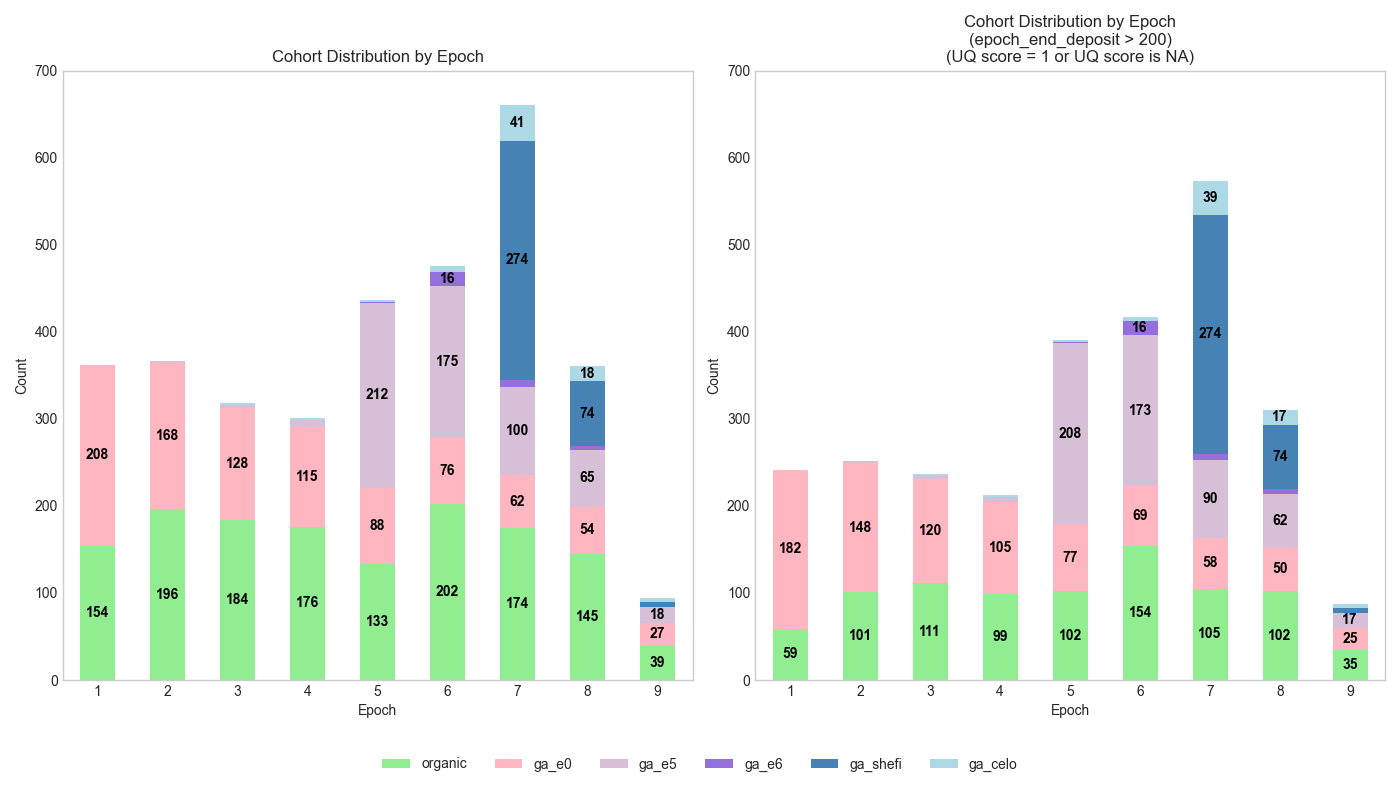
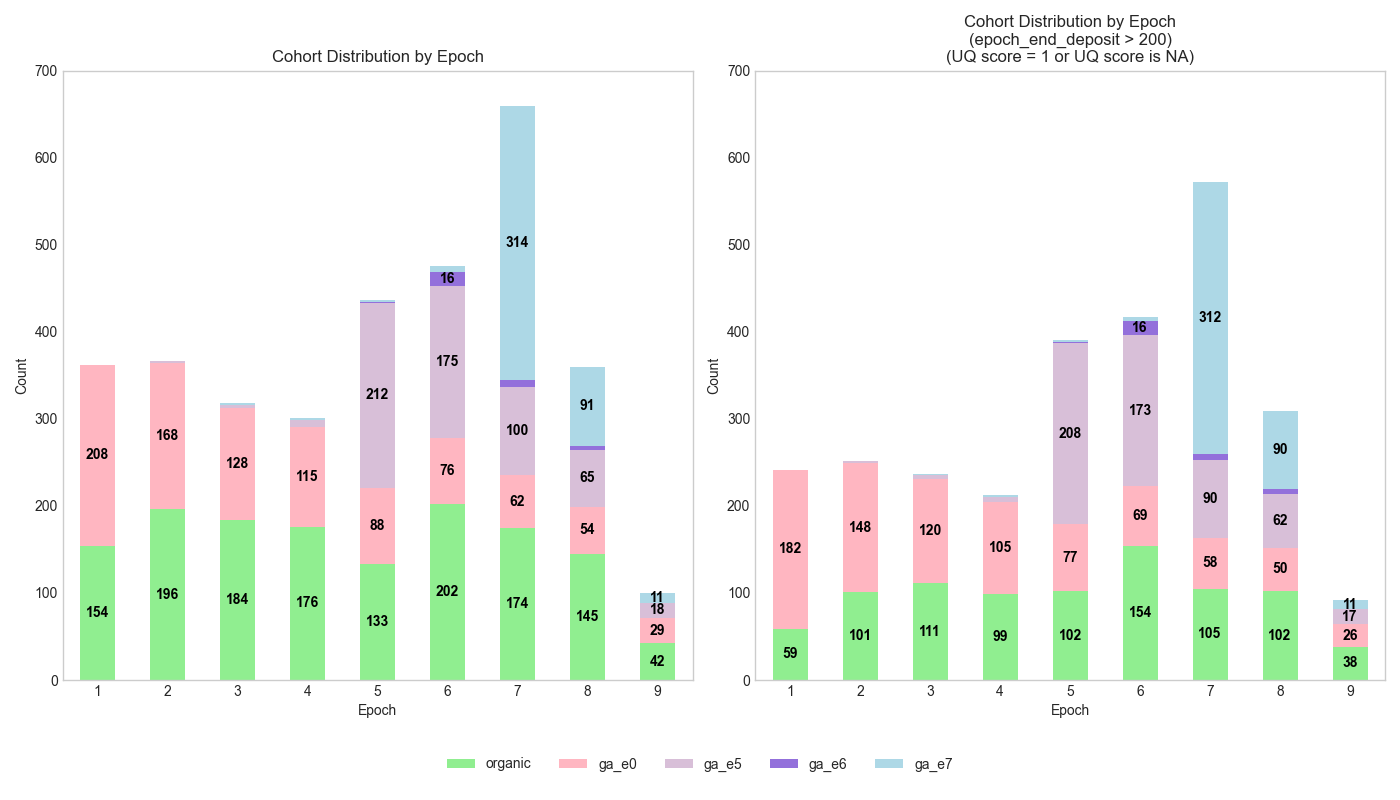
update

diff --git a/_includes/e9/table_amounts.html b/_includes/e9/table_amounts.html
@@ -86,10 +86,10 @@
     <tr>
       <td style="width: 1%; text-align: center; padding: 8px; word-wrap: break-word; white-space: normal;">9</td>
       <td style="width: 1%; text-align: center; padding: 8px; word-wrap: break-word; white-space: normal;">173.609</td>
-      <td style="width: 1%; text-align: center; padding: 8px; word-wrap: break-word; white-space: normal;">114.315</td>
-      <td style="width: 1%; text-align: center; padding: 8px; word-wrap: break-word; white-space: normal;">1.095</td>
-      <td style="width: 1%; text-align: center; padding: 8px; word-wrap: break-word; white-space: normal;">34.2</td>
-      <td style="width: 1%; text-align: center; padding: 8px; word-wrap: break-word; white-space: normal;">65.8</td>
+      <td style="width: 1%; text-align: center; padding: 8px; word-wrap: break-word; white-space: normal;">114.393</td>
+      <td style="width: 1%; text-align: center; padding: 8px; word-wrap: break-word; white-space: normal;">1.129</td>
+      <td style="width: 1%; text-align: center; padding: 8px; word-wrap: break-word; white-space: normal;">34.1</td>
+      <td style="width: 1%; text-align: center; padding: 8px; word-wrap: break-word; white-space: normal;">65.9</td>
       <td style="width: 1%; text-align: center; padding: 8px; word-wrap: break-word; white-space: normal;">1.0</td>
     </tr>
   </tbody>

diff --git a/_includes/e9/table_users.html b/_includes/e9/table_users.html
@@ -68,9 +68,9 @@
     <tr>
       <td style="width: 1%; text-align: center; padding: 8px; word-wrap: break-word; white-space: normal;">9</td>
       <td style="width: 1%; text-align: center; padding: 8px; word-wrap: break-word; white-space: normal;">1034</td>
-      <td style="width: 1%; text-align: center; padding: 8px; word-wrap: break-word; white-space: normal;">95</td>
-      <td style="width: 1%; text-align: center; padding: 8px; word-wrap: break-word; white-space: normal;">86</td>
-      <td style="width: 1%; text-align: center; padding: 8px; word-wrap: break-word; white-space: normal;">9.2</td>
+      <td style="width: 1%; text-align: center; padding: 8px; word-wrap: break-word; white-space: normal;">101</td>
+      <td style="width: 1%; text-align: center; padding: 8px; word-wrap: break-word; white-space: normal;">92</td>
+      <td style="width: 1%; text-align: center; padding: 8px; word-wrap: break-word; white-space: normal;">9.8</td>
     </tr>
   </tbody>
 </table>

diff --git a/_includes/e9/table_cohorts.html b/_includes/e9/table_cohorts.html
@@ -79,7 +79,7 @@
       <td style="width: 1%; text-align: center; padding: 8px; word-wrap: break-word; white-space: normal;">23</td>
       <td style="width: 1%; text-align: center; padding: 8px; word-wrap: break-word; white-space: normal;">5</td>
       <td style="width: 1%; text-align: center; padding: 8px; word-wrap: break-word; white-space: normal;">4</td>
-      <td style="width: 1%; text-align: center; padding: 8px; word-wrap: break-word; white-space: normal;">7</td>
+      <td style="width: 1%; text-align: center; padding: 8px; word-wrap: break-word; white-space: normal;">8</td>
       <td style="width: 1%; text-align: center; padding: 8px; word-wrap: break-word; white-space: normal;">11</td>
     </tr>
   </tbody>

diff --git a/_includes/e9/current_datetime.html b/_includes/e9/current_datetime.html
@@ -7,6 +7,6 @@
     <title>Current Date and Time</title>
 </head>
 <body>
-    <p>Last update: 2025-10-10 17:23:04</p>
+    <p>Last update: 2025-10-10 21:56:09</p>
 </body>
 </html>
